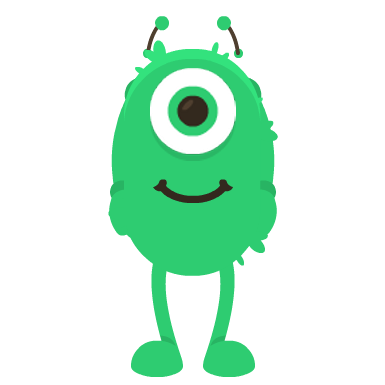
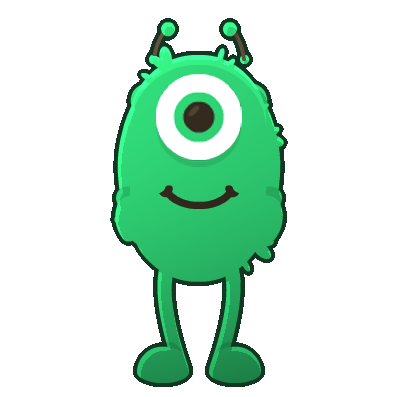
Give the pets depth and life
The pet builder now shades each sprite (light from the top, darker
toward the feet), adds a rim light and a dark outline, and the Fire pet
grins instead of frowning. In the app, pets breathe, sway, hop now and
then, stand on a soft shadow and glow with drifting sparks of their
element.

diff --git a/lib/ui/widgets/pet_sprite.dart b/lib/ui/widgets/pet_sprite.dart
@@ -8,8 +8,10 @@ import '../../domain/pet/species.dart';
 import '../theme/tokens.dart';
 import 'game_icon.dart';
 
-/// The pet drawn at its growth size with an idle bob and its aura tier:
-/// 1 = glow, 2 = swirling aura, 3 = sparkles, 4 = crown.
+/// The pet drawn at its growth size, alive: it breathes, sways, hops now
+/// and then, stands on a soft shadow and is surrounded by a faint glow and
+/// drifting sparks of its element. Aura tiers add more as it levels:
+/// 1 = stronger glow, 2 = swirling aura, 3 = sparkles, 4 = crown.
 class PetSprite extends StatefulWidget {
   const PetSprite({
     super.key,
@@ -40,10 +42,15 @@ class PetSprite extends StatefulWidget {
 
 class _PetSpriteState extends State<PetSprite>
     with SingleTickerProviderStateMixin {
+  /// One loop = 6 s: two breaths, one sway, one hop near the end.
   late final AnimationController _controller = AnimationController(
     vsync: this,
-    duration: const Duration(milliseconds: 2400),
+    duration: const Duration(milliseconds: 6000),
   );
+
+  /// Pets start at different points of the loop so a row of them is not
+  /// moving in lockstep.
+  late final double _phase = Random().nextDouble();
 
   @override
   void initState() {
@@ -70,43 +77,68 @@ class _PetSpriteState extends State<PetSprite>
     final scale = widget.fixedScale ?? PetProgression.scale(widget.level);
     final tier = widget.showAura ? PetProgression.auraTier(widget.level) : 0;
     final spriteSize = widget.size * scale;
+    final sprite = Image.asset(
+      Species.of(widget.element).asset,
+      width: spriteSize,
+      height: spriteSize,
+      filterQuality: FilterQuality.medium,
+    );
 
     return SizedBox(
       width: widget.size,
       height: widget.size,
       child: AnimatedBuilder(
         animation: _controller,
+        child: sprite,
         builder: (context, child) {
-          final t = _controller.value * 2 * pi;
-          final bob = sin(t) * 4;
-          final squash = 1 + sin(t) * 0.012;
+          final v = (_controller.value + _phase) % 1;
+          final t = v * 2 * pi;
+          // Breathing: two breaths per loop, squash and stretch.
+          final breath = sin(t * 2);
+          final stretchY = 1 + breath * 0.035;
+          final stretchX = 1 - breath * 0.025;
+          // Gentle sway.
+          final sway = sin(t) * 0.035;
+          // A quick hop between 82% and 92% of the loop.
+          final hopT = ((v - 0.82) / 0.10).clamp(0.0, 1.0);
+          final hop = widget.animate ? sin(hopT * pi) * spriteSize * 0.10 : 0.0;
+          final glowPulse = 0.5 + 0.5 * sin(t * 2);
+
           return Stack(
             alignment: Alignment.bottomCenter,
             clipBehavior: Clip.none,
             children: [
-              // Ground shadow.
+              // Soft ground shadow: smaller and lighter while hopping.
               Positioned(
-                bottom: 2,
+                bottom: 0,
                 child: Container(
-                  width: spriteSize * 0.62,
-                  height: spriteSize * 0.08,
+                  width: spriteSize * (0.70 - hop / spriteSize),
+                  height: spriteSize * 0.12,
                   decoration: BoxDecoration(
-                    color: Colors.black.withValues(alpha: 0.35),
-                    borderRadius: BorderRadius.circular(99),
+                    borderRadius: BorderRadius.circular(999),
+                    gradient: RadialGradient(
+                      colors: [
+                        Colors.black.withValues(alpha: 0.45 - hop / spriteSize),
+                        Colors.black.withValues(alpha: 0),
+                      ],
+                    ),
                   ),
                 ),
               ),
-              if (tier >= 1)
+              // Element glow, always there; brighter with aura tiers.
+              if (widget.showAura)
                 Positioned(
-                  bottom: spriteSize * 0.12,
+                  bottom: spriteSize * 0.08,
                   child: Container(
-                    width: spriteSize * 0.95,
-                    height: spriteSize * 0.95,
+                    width: spriteSize * (1.0 + 0.1 * tier),
+                    height: spriteSize * (1.0 + 0.1 * tier),
                     decoration: BoxDecoration(
                       shape: BoxShape.circle,
                       gradient: RadialGradient(
                         colors: [
-                          color.withValues(alpha: 0.38 + 0.08 * sin(t)),
+                          color.withValues(
+                            alpha: 0.16 + 0.07 * tier + 0.06 * glowPulse,
+                          ),
                           color.withValues(alpha: 0),
                         ],
                       ),
@@ -119,7 +151,7 @@ class _PetSpriteState extends State<PetSprite>
                   child: Transform.rotate(
                     angle: t,
                     child: Opacity(
-                      opacity: 0.55,
+                      opacity: 0.5,
                       child: Image.asset(
                         'assets/fx/twirl_02.png',
                         width: spriteSize * 1.05,
@@ -130,35 +162,47 @@ class _PetSpriteState extends State<PetSprite>
                     ),
                   ),
                 ),
+              // Drifting element sparks (drawn in code).
+              if (widget.showAura)
+                Positioned.fill(
+                  child: IgnorePointer(
+                    child: CustomPaint(
+                      painter: _MotesPainter(
+                        progress: v,
+                        color: color,
+                        count: 5 + tier * 3,
+                        spread: spriteSize,
+                      ),
+                    ),
+                  ),
+                ),
+              // The pet itself.
               Positioned(
-                bottom: 6 + bob.abs(),
+                bottom: spriteSize * 0.05 + hop,
                 child: Transform(
                   alignment: Alignment.bottomCenter,
-                  transform: Matrix4.diagonal3Values(
-                    widget.flip ? -1.0 : 1.0,
-                    squash,
-                    1,
-                  ),
-                  child: Image.asset(
-                    Species.of(widget.element).asset,
-                    width: spriteSize,
-                    height: spriteSize,
-                    filterQuality: FilterQuality.medium,
-                  ),
+                  transform: Matrix4.identity()
+                    ..rotateZ(sway)
+                    ..scaleByDouble(
+                      (widget.flip ? -1.0 : 1.0) * stretchX,
+                      stretchY,
+                      1,
+                      1,
+                    ),
+                  child: child,
                 ),
               ),
               if (tier >= 3)
                 for (var i = 0; i < 3; i++)
                   Positioned(
                     bottom:
-                        spriteSize *
-                        (0.35 + 0.5 * ((i * 0.37 + _controller.value) % 1)),
+                        spriteSize * (0.35 + 0.5 * ((i * 0.37 + v * 3) % 1)),
                     left:
                         widget.size / 2 +
-                        cos(t + i * 2.1) * spriteSize * 0.55 -
+                        cos(t * 3 + i * 2.1) * spriteSize * 0.55 -
                         8,
                     child: Opacity(
-                      opacity: 1 - ((i * 0.37 + _controller.value) % 1),
+                      opacity: 1 - ((i * 0.37 + v * 3) % 1),
                       child: Image.asset(
                         'assets/fx/star_06.png',
                         width: 16,
@@ -169,7 +213,7 @@ class _PetSpriteState extends State<PetSprite>
                   ),
               if (tier >= 4)
                 Positioned(
-                  bottom: 6 + bob.abs() + spriteSize * 0.9,
+                  bottom: spriteSize * 0.97 + hop,
                   child: const GameIcon('crown', size: 30, color: Palette.gold),
                 ),
             ],
@@ -178,4 +222,43 @@ class _PetSpriteState extends State<PetSprite>
       ),
     );
   }
+}
+
+/// Small glowing dots that rise around the pet and fade out.
+class _MotesPainter extends CustomPainter {
+  _MotesPainter({
+    required this.progress,
+    required this.color,
+    required this.count,
+    required this.spread,
+  });
+
+  final double progress;
+  final Color color;
+  final int count;
+  final double spread;
+
+  @override
+  void paint(Canvas canvas, Size size) {
+    final rng = Random(count * 7919);
+    final cx = size.width / 2;
+    for (var i = 0; i < count; i++) {
+      final offset = rng.nextDouble();
+      final x = cx + (rng.nextDouble() - 0.5) * spread * 1.1;
+      final speed = 1 + rng.nextInt(2);
+      final life = (progress * speed + offset) % 1;
+      final y = size.height - spread * 0.1 - life * spread * 0.9;
+      final alpha = sin(life * pi) * 0.75;
+      final radius = 1.5 + rng.nextDouble() * 2.5;
+      final drift = sin((life + offset) * 2 * pi) * 6;
+      final paint = Paint()
+        ..color = color.withValues(alpha: alpha)
+        ..maskFilter = const MaskFilter.blur(BlurStyle.normal, 2);
+      canvas.drawCircle(Offset(x + drift, y), radius, paint);
+    }
+  }
+
+  @override
+  bool shouldRepaint(_MotesPainter old) =>
+      old.progress != progress || old.color != color || old.count != count;
 }

diff --git a/tool/build_pets.dart b/tool/build_pets.dart
@@ -47,7 +47,7 @@ const designs = [
     leg: 'leg_redA',
     detail: 'detail_red_horn_small',
     eyes: 'eye_human_red',
-    mouth: 'mouth_closed_fangs',
+    mouth: 'mouthC',
   ),
   PetDesign(
     file: 'water',
@@ -190,12 +190,94 @@ img.Image build(PetDesign d) {
     by + body.height * 0.64 - mouth.height / 2,
   );
 
-  final trimmed = img.trim(canvas, mode: img.TrimMode.transparent);
+  final trimmed = outline(
+    shade(img.trim(canvas, mode: img.TrimMode.transparent)),
+  );
   // Pad to a square so every pet scales the same way in the UI.
   final side =
       (trimmed.width > trimmed.height ? trimmed.width : trimmed.height) + 24;
   final out = img.Image(width: side, height: side, numChannels: 4);
   place(out, trimmed, (side - trimmed.width) / 2, side - trimmed.height - 8);
+  return out;
+}
+
+// ------------------------------------------------------------- depth --
+// Kenney's parts are flat-coloured. These passes add volume (CC0 allows
+// modification): light from the top-left, shadow toward the bottom, a soft
+// rim light, and a dark outline so the pet reads on any background.
+
+/// Top-to-bottom light falloff plus a left-to-right tint, and a rim light
+/// along the top-left edges.
+img.Image shade(img.Image src) {
+  final out = img.Image.from(src);
+  final w = src.width, h = src.height;
+  bool solid(int x, int y) =>
+      x >= 0 && y >= 0 && x < w && y < h && src.getPixel(x, y).a > 40;
+  for (var y = 0; y < h; y++) {
+    for (var x = 0; x < w; x++) {
+      final p = src.getPixel(x, y);
+      if (p.a == 0) continue;
+      final ty = y / h, tx = x / w;
+      // 1.12 at the top-left down to ~0.62 at the bottom-right.
+      var f = 1.12 - 0.42 * ty * ty - 0.10 * tx;
+      // Rim light: pixels whose upper-left neighbours are empty.
+      if (!solid(x - 4, y - 4) || !solid(x, y - 5)) f += 0.22;
+      // Contact shadow where parts overlap (just below a transparent gap).
+      out.setPixelRgba(
+        x,
+        y,
+        (p.r * f).clamp(0, 255).toInt(),
+        (p.g * f).clamp(0, 255).toInt(),
+        (p.b * f).clamp(0, 255).toInt(),
+        p.a.toInt(),
+      );
+    }
+  }
+  return out;
+}
+
+/// Adds a dark outline (the sprite's own average colour, darkened) around
+/// every opaque pixel.
+img.Image outline(img.Image src, {int thickness = 4}) {
+  const pad = 6;
+  final w = src.width + pad * 2, h = src.height + pad * 2;
+  var r = 0.0, g = 0.0, b = 0.0, n = 0;
+  for (final p in src) {
+    if (p.a < 200) continue;
+    r += p.r;
+    g += p.g;
+    b += p.b;
+    n++;
+  }
+  final ink = n == 0
+      ? img.ColorRgba8(20, 16, 30, 255)
+      : img.ColorRgba8(
+          (r / n * 0.28).round(),
+          (g / n * 0.28).round(),
+          (b / n * 0.28).round(),
+          255,
+        );
+  final out = img.Image(width: w, height: h, numChannels: 4);
+  for (var y = 0; y < h; y++) {
+    for (var x = 0; x < w; x++) {
+      var hit = false;
+      for (var dy = -thickness; dy <= thickness && !hit; dy++) {
+        for (var dx = -thickness; dx <= thickness && !hit; dx++) {
+          if (dx * dx + dy * dy > thickness * thickness) continue;
+          final sx = x - pad + dx, sy = y - pad + dy;
+          if (sx >= 0 &&
+              sy >= 0 &&
+              sx < src.width &&
+              sy < src.height &&
+              src.getPixel(sx, sy).a > 60) {
+            hit = true;
+          }
+        }
+      }
+      if (hit) out.setPixel(x, y, ink);
+    }
+  }
+  img.compositeImage(out, src, dstX: pad, dstY: pad);
   return out;
 }
 
